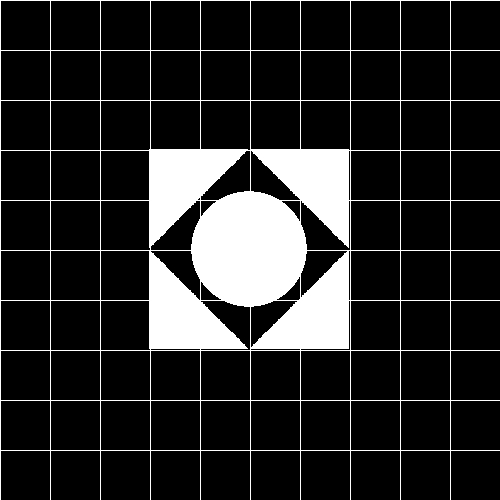
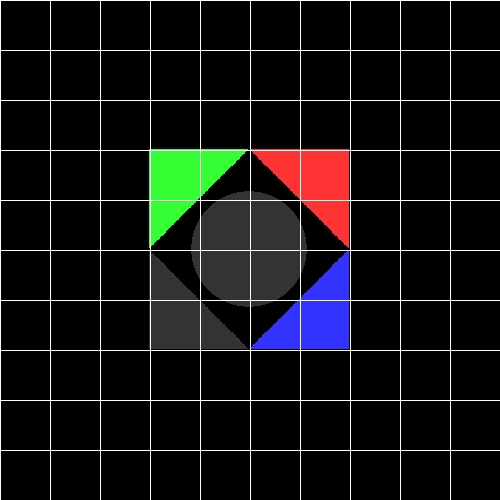
כמעט סוף שלב 6

Changed region(s): [[0.27, 0.27, 0.72, 0.72]]

diff --git a/Tar_1/src/renderer/Render.java b/Tar_1/src/renderer/Render.java
@@ -61,7 +61,9 @@ public class Render
                 else
                     {
                   Intersectable.GeoPoint closestPoint = getClosestPoint(intersectionPoints);
+                        // TODO: 18/05/2020 fix bag ! //
                     _imageWriter.writePixel(column-1, row-1, calcColor(closestPoint).getColor());
+
                 }
             }
         }
@@ -74,6 +76,7 @@ public class Render
      * @return
      */
     private Color calcColor(Intersectable.GeoPoint gp) {
+        int nShininess=0;double kd=0,ks=0;
         Color result = _scene.getAmbientLight().get_intensity();
         result = result.add(gp.getGeometry().get_emission());
         List<LightSource> lights = _scene.get_lights();
@@ -82,9 +85,10 @@ public class Render
         Vector n = gp.getGeometry().getNormal(gp.getPoint());
 
         Material material = gp.getGeometry().get_material();
-        int nShininess = material.getnShininess();
-        double kd = material.getKd();
-        double ks = material.getKs();
+         if (material!=null)
+         { nShininess = material.getnShininess();
+          kd = material.getKd();
+          ks = material.getKs();}
         if (_scene.get_lights() != null) {
             for (LightSource lightSource : lights) {
 
@@ -169,21 +173,22 @@ public class Render
     private Intersectable.GeoPoint getClosestPoint(List<Intersectable.GeoPoint> intersectionPoints)
     {
      Intersectable.GeoPoint result=null;
-     Double minDis=Double.MAX_VALUE;
-
-        Point3D beginningPoint= _scene.getCamera().get_p0();
+     double minDis=Double.MAX_VALUE;
+     double Distance = 0;
+     Point3D beginningPoint= _scene.getCamera().get_p0();
 
 
      for (Intersectable.GeoPoint geo: intersectionPoints)
      {
          Point3D point = geo.getPoint();
-         Double distance= beginningPoint.distance(point);
-         if(distance<minDis)
-             minDis=distance;
+         Distance= beginningPoint.distance(geo.getPoint());
+         if(Distance<minDis)
+             minDis=Distance;
             result=geo;
      }
      return result;
     }
+
 
     /**
      * prints the grid on the image

diff --git a/Tar_1/src/geometries/Polygon.java b/Tar_1/src/geometries/Polygon.java
@@ -31,9 +31,20 @@ public class Polygon extends Geometry {
    this(vertices);
         set_emission(emission);
 
-
     }
 
+    /**
+     * Polygon constructor with color and material
+     * @param emission
+     * @param _material
+     * @param vertices
+     */
+    public Polygon(Color emission,Material _material ,Point3D... vertices) {
+        this(vertices);
+        set_emission(emission);
+        this._material=_material;
+
+    }
 
     public Polygon(Point3D... vertices) {
         if (vertices.length < 3)
@@ -88,29 +99,31 @@ public class Polygon extends Geometry {
      */
     @Override
     public List<GeoPoint> findIntersections(Ray ray) {
-        List<GeoPoint> intersections = _plane.findIntersections(ray);//list of the intersections
-        if (intersections == null) //no intersection in the plane so there is no intersection in the polygon
-            return null;
+
+        List<GeoPoint> intersections = _plane.findIntersections(ray);
+
+        if (intersections == null) return null;
 
         Point3D p0 = ray.getPoint();
         Vector v = ray.getDirection();
 
-        Vector v1  = _vertices.get(1).subtract(p0);
+        Vector v1 = _vertices.get(1).subtract(p0);
         Vector v2 = _vertices.get(0).subtract(p0);
         double sign = v.dotProduct(v1.crossProduct(v2));
-        if (isZero(sign))//the ray is tangent to the polygon so its not count as intersection
+        if (isZero(sign))
             return null;
 
         boolean positive = sign > 0;
-             // check from all the points in the polygon to the ray
+
         for (int i = _vertices.size() - 1; i > 0; --i) {
             v1 = v2;
             v2 = _vertices.get(i).subtract(p0);
             sign = alignZero(v.dotProduct(v1.crossProduct(v2)));
             if (isZero(sign)) return null;
-            if (positive != (sign >0)) //if all are positive or all are negative, we have a intersection
-                return null;
+            if (positive != (sign > 0)) return null;
         }
+       // if (intersections.size()>0)
+           intersections.get(0).geometry = this;
 
         return intersections;
     }

diff --git a/Tar_1/src/scene/Scene.java b/Tar_1/src/scene/Scene.java
@@ -4,6 +4,7 @@ import geometries.*;
 import primitives.Color;
 
 import java.util.ArrayList;
+import java.util.LinkedList;
 import java.util.List;
 
 /**
@@ -11,13 +12,13 @@ import java.util.List;
  */
 public class Scene
 {
-    String _name;
-    Color _background;
-    AmbientLight _ambientLight;
-    Geometries _geometries;
-    Camera _camera;
-    double _distance;
-    List<LightSource> _lights=null;
+    private  String _name;
+    private  Color _background;
+    private AmbientLight _ambientLight;
+    private Geometries _geometries=null;
+    private  Camera _camera;
+    private  double _distance;
+    private List<LightSource> _lights;
 
     /**
      *
@@ -28,13 +29,21 @@ public class Scene
     }
 
     /**
+     * remove all the geometries from the list
+     * @param geometries
+     */
+    public void removeGeometries(Intersectable... geometries) {
+        _geometries.removeAll(geometries);
+    }
+    /**
      * constructor
      * @param _name gets the scene name
      *   creates a empty geometries list
      */
     public Scene(String _name) {
         this._name = _name;
-        _geometries = new Geometries();
+        _geometries = new Geometries(); // need to check .......
+        _lights = new LinkedList<>();
     }
 
     public void setName(String _name) {

diff --git a/Tar_1/src/geometries/Triangle.java b/Tar_1/src/geometries/Triangle.java
@@ -26,10 +26,12 @@ public class Triangle extends Polygon {
      */
     public Triangle(Color _emission, Point3D _p1, Point3D _p2, Point3D _p3) {
         super(_emission, _p1, _p2, _p3);
+        this._material=new Material(0,0,0);
     }
 
     public Triangle(Point3D x, Point3D y, Point3D z) {
         super(new Point3D[]{x, y, z});
+        this._material=new Material(0,0,0);
     }
 
     /**
@@ -37,8 +39,9 @@ public class Triangle extends Polygon {
      *
      */
     public Triangle(Color color, Material _material, Point3D p1, Point3D p2, Point3D p3) {
-        super(color, p1, p2, p3);
-        this._material = _material;
+        super(color,_material, p1, p2, p3);
+       // this._material = _material;
+
     }
 
 
@@ -64,6 +67,7 @@ public class Triangle extends Polygon {
     }
 
     public List<GeoPoint> findIntersections(Ray ray) {
+
         return super.findIntersections(ray);
     }
 }

diff --git a/Tar_1/src/primitives/Material.java b/Tar_1/src/primitives/Material.java
@@ -27,21 +27,21 @@ public class Material {
      * @return attenuation factors
      */
         public double getKd() {
-            return _kD;
+            return this._kD;
         }
     /**
      *
      * @return attenuation factors
      */
         public double getKs() {
-            return _kS;
+            return this._kS;
         }
     /**
      *
      * @return shininess factor
      */
         public int getnShininess() {
-            return _nShininess;
+            return this._nShininess;
         }
     }
 

diff --git a/Tar_1/src/primitives/Color.java b/Tar_1/src/primitives/Color.java
@@ -123,8 +123,9 @@ public class Color {
      * @return java.awt.Color object based on this Color RGB components
      */
     public java.awt.Color getColor() {
-        int r = (int)_r, g = (int)_g, b = (int)_b;
-        return new java.awt.Color(r > 255 ? 255 : r, g > 255 ? 255 : g, b > 255 ? 255 : b);
+
+        int r = (int) _r, g = (int) _g, b = (int) _b;
+        return new java.awt.Color(Math.min(r, 255), Math.min(g, 255), Math.min(b, 255));
     }
 
     /**

diff --git a/Tar_1/src/geometries/Geometries.java b/Tar_1/src/geometries/Geometries.java
@@ -47,7 +47,11 @@ public class Geometries implements Intersectable {
         return intersections;
 
     }
-
+    public void removeAll(Intersectable... geometries)
+    {
+        for (Intersectable intersectable:geometries)
+            _geometries.remove(intersectable);
+    }
     public void remove(Intersectable... intersectables) {
         for (Intersectable geo : _geometries) {
             _geometries.remove(geo);

diff --git a/Tar_1/src/geometries/Plane.java b/Tar_1/src/geometries/Plane.java
@@ -79,12 +79,7 @@ public class Plane extends Geometry {
             return null;
 
         double t = alignZero(_normal.dotProduct(p0Q) / nv);
-        if (t > 0) {
-            GeoPoint geo = new GeoPoint(this,ray.getTargetPoint(t));
 
-            return List.of(geo);
-        } else {
-            return null;
-        }
+        return t <= 0 ? null : List.of( new GeoPoint(this, ray.getTargetPoint(t)));
     }
 }

diff --git a/Tar_1/src/geometries/Geometry.java b/Tar_1/src/geometries/Geometry.java
@@ -19,8 +19,9 @@ public abstract class Geometry implements Intersectable
      * @return the _material of the geometry
      */
     public Material get_material() {
-        return _material;
+        return this._material;
     }
+
 
     /**
      * constructor

diff --git a/Tar_1/src/geometries/Intersectable.java b/Tar_1/src/geometries/Intersectable.java
@@ -51,7 +51,7 @@ public interface Intersectable
             }
 
         public Geometry getGeometry() {
-            return geometry;
+            return this.geometry;
         }
 
         public Point3D getPoint() {

diff --git a/Tar_1/src/renderer/ImageWriter.java b/Tar_1/src/renderer/ImageWriter.java
@@ -1,6 +1,6 @@
 package renderer;
 
-import java.awt.Color;
+import java.awt.*;
 import java.awt.image.BufferedImage;
 import java.io.File;
 import java.io.IOException;
